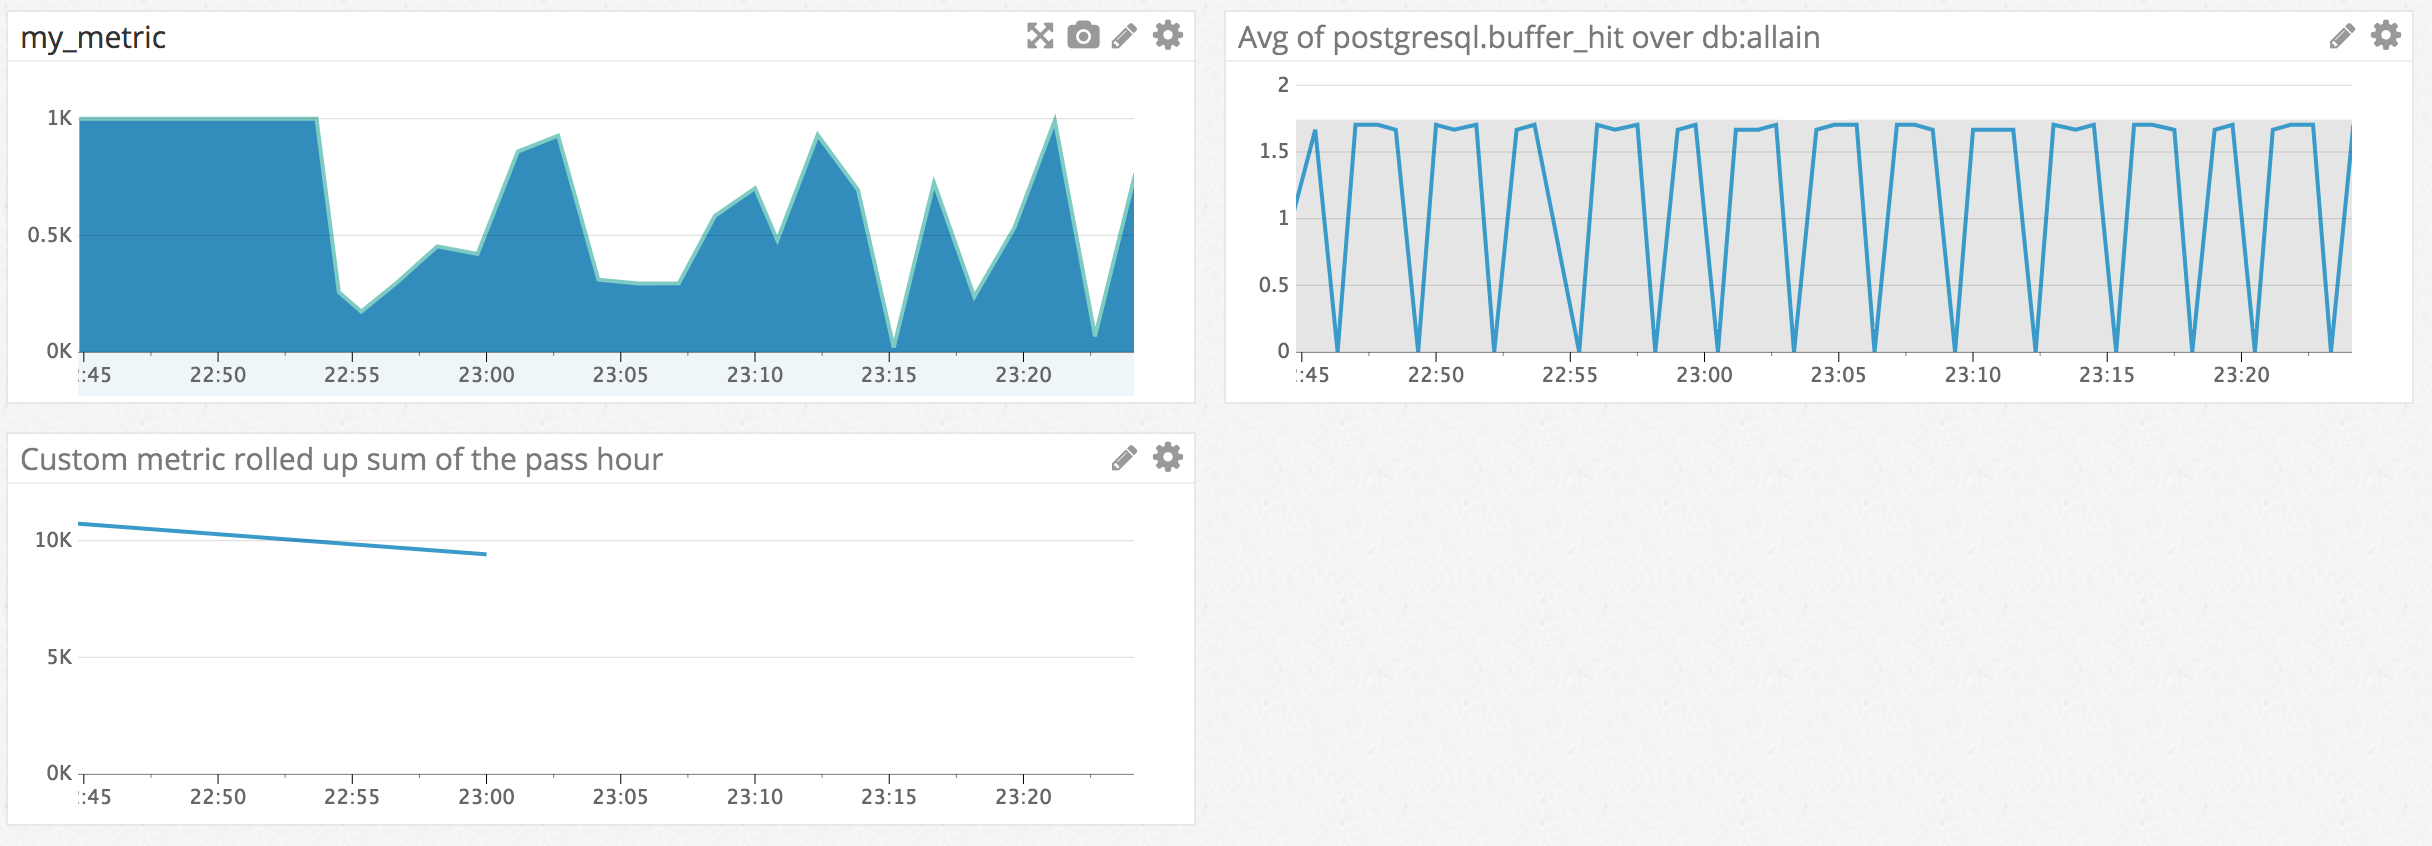
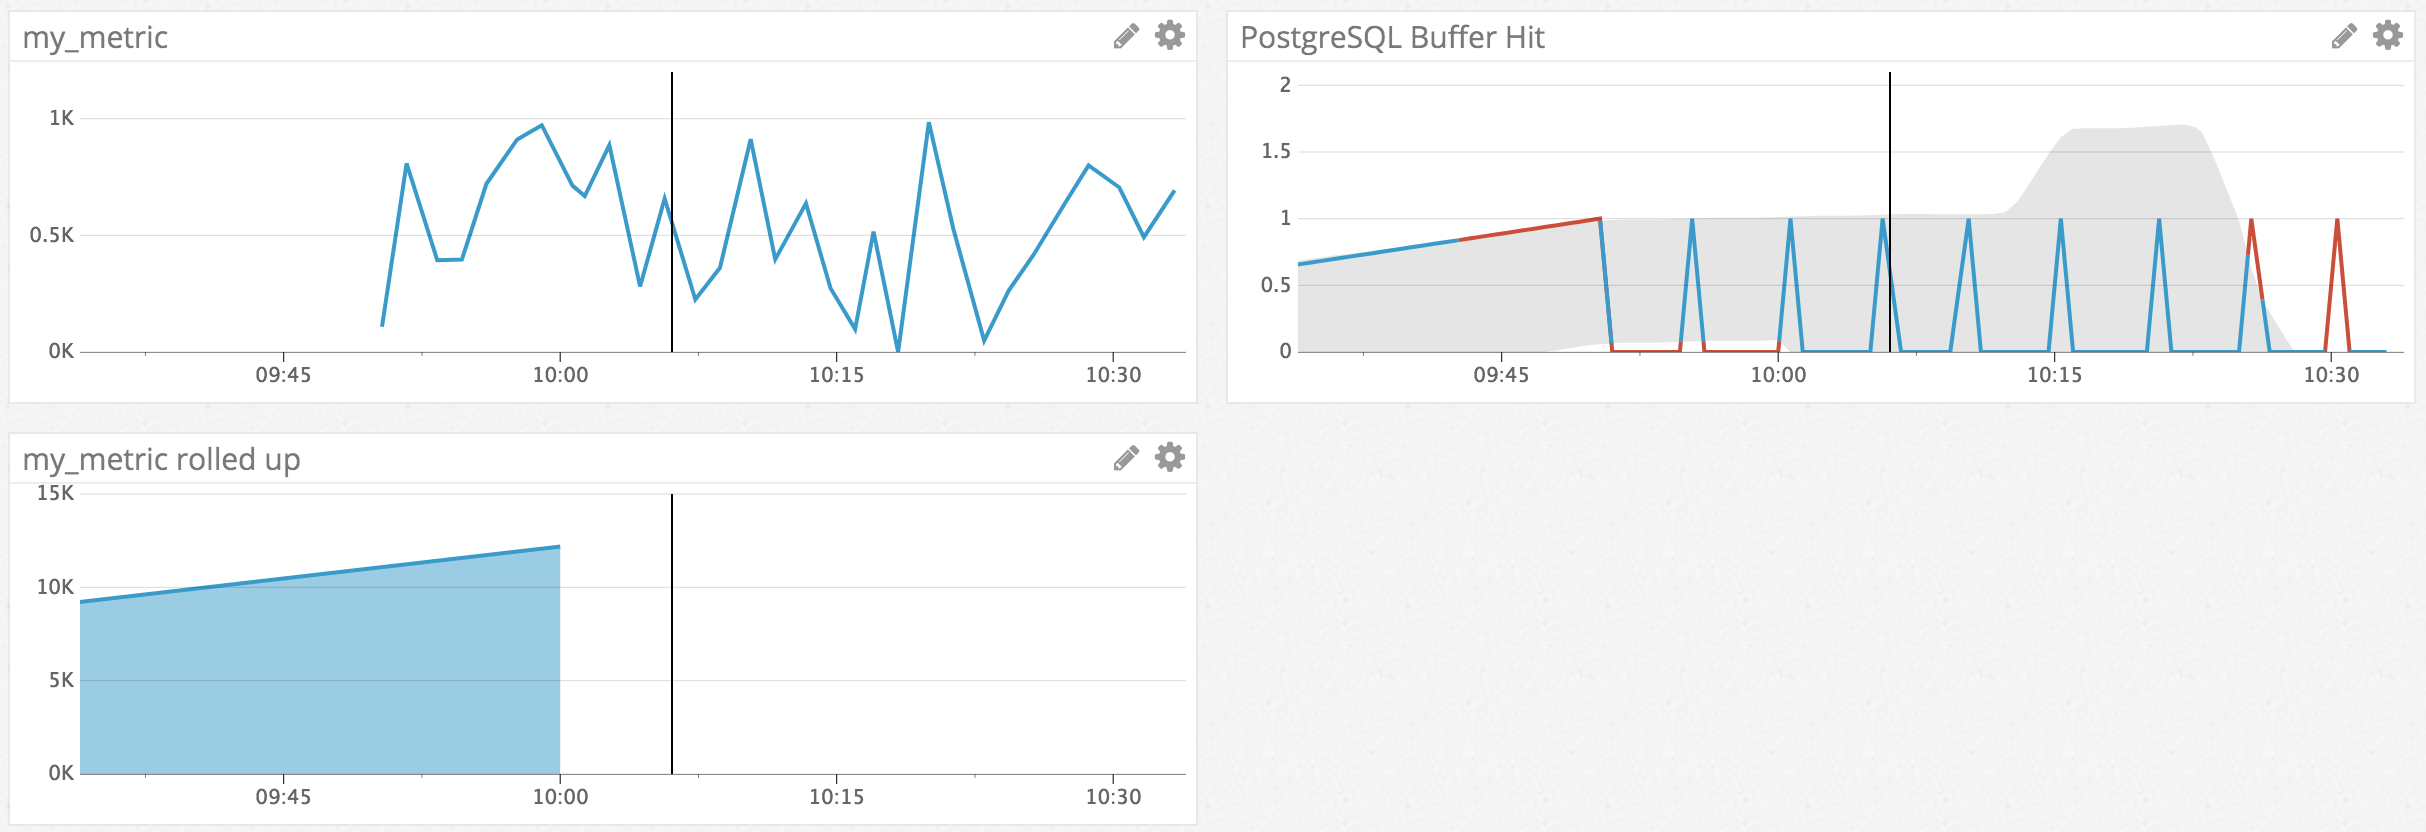
Add api snippet

diff --git a/answers.md b/answers.md
@@ -68,6 +68,54 @@
   * Your custom metric scoped over your host.
   * Any metric from the Integration on your Database with the anomaly function applied.
   * Your custom metric with the rollup function applied to sum up all the points for the past hour into one bucket
+    * ```
+    api_key=e08e4db03d3daeb043fbd42835d41363
+    app_key=0838473e91c073f65421dfc9610473e03f2e267b
+    curl  -X POST -H "Content-type: application/json" \
+    -d '{
+          "graphs" : [{
+            "title": "my_metric",
+            "definition": {
+              "events": [],
+              "requests": [
+                {"q": "avg:my_metric{host:Joes-MBP.fios-router.home}.as_count()"}
+              ]
+            },
+            "viz": "timeseries"
+          },
+          {
+            "title": "PostgreSQL Buffer Hit",
+            "definition": {
+              "events": [],
+              "requests": [
+                {"q": "avg:postgresql.bgwriter.checkpoints_timed{*}.as_count()"}
+              ]
+            },
+            "viz": "timeseries"
+          },
+          {
+            "title": "my_metric rolled up",
+            "definition": {
+              "events": [],
+              "requests": [
+                {"q": "avg:my_metric{host:Joes-MBP.fios-router.home}.as_count().rollup(sum, 3600)"}
+              ]
+            },
+            "viz": "timeseries"
+          }],
+          "title" : "API Example Dashboard",
+          "description" : "A dashboard with memory info.",
+          "template_variables": [{
+              "name": "host1",
+              "prefix": "host",
+              "default": "host:my-host"
+          }],
+          "read_only": "True"
+        }' \
+    "https://app.datadoghq.com/api/v1/dash?api_key=${api_key}&application_key=${app_key}"
+    ```
+    * It would not parse my request to show anomalies. I manually changed it on the dashboard once it was created.
+    * ![apiresponse](./images/apiresponse.png "apiresponse")
     * ![customedash](./images/customedash.png "customedash")
 * Once this is created, access the Dashboard from your Dashboard List in the UI:
   * Set the Timeboard's timeframe to the past 5 minutes
@@ -113,4 +161,4 @@
 
 # Final Question:
 * Is there anything creative you would use Datadog for?
-  * I am currently building a dog walking application and I could see using Datadog to monitor the daily usage of the database. Although I am currently using Firebase, switching to AWS would allow me to do this. If my application ends up growing I could see the efficiency of the database and would be able to test my queries and see if it improves or not. 
+  * I am currently building a dog walking application and I could see using Datadog to monitor the daily usage of the database. Although I am currently using Firebase, switching to AWS would allow me to do this. If my application ends up growing I could see the efficiency of the database and would be able to test my queries and see if it improves or not.
